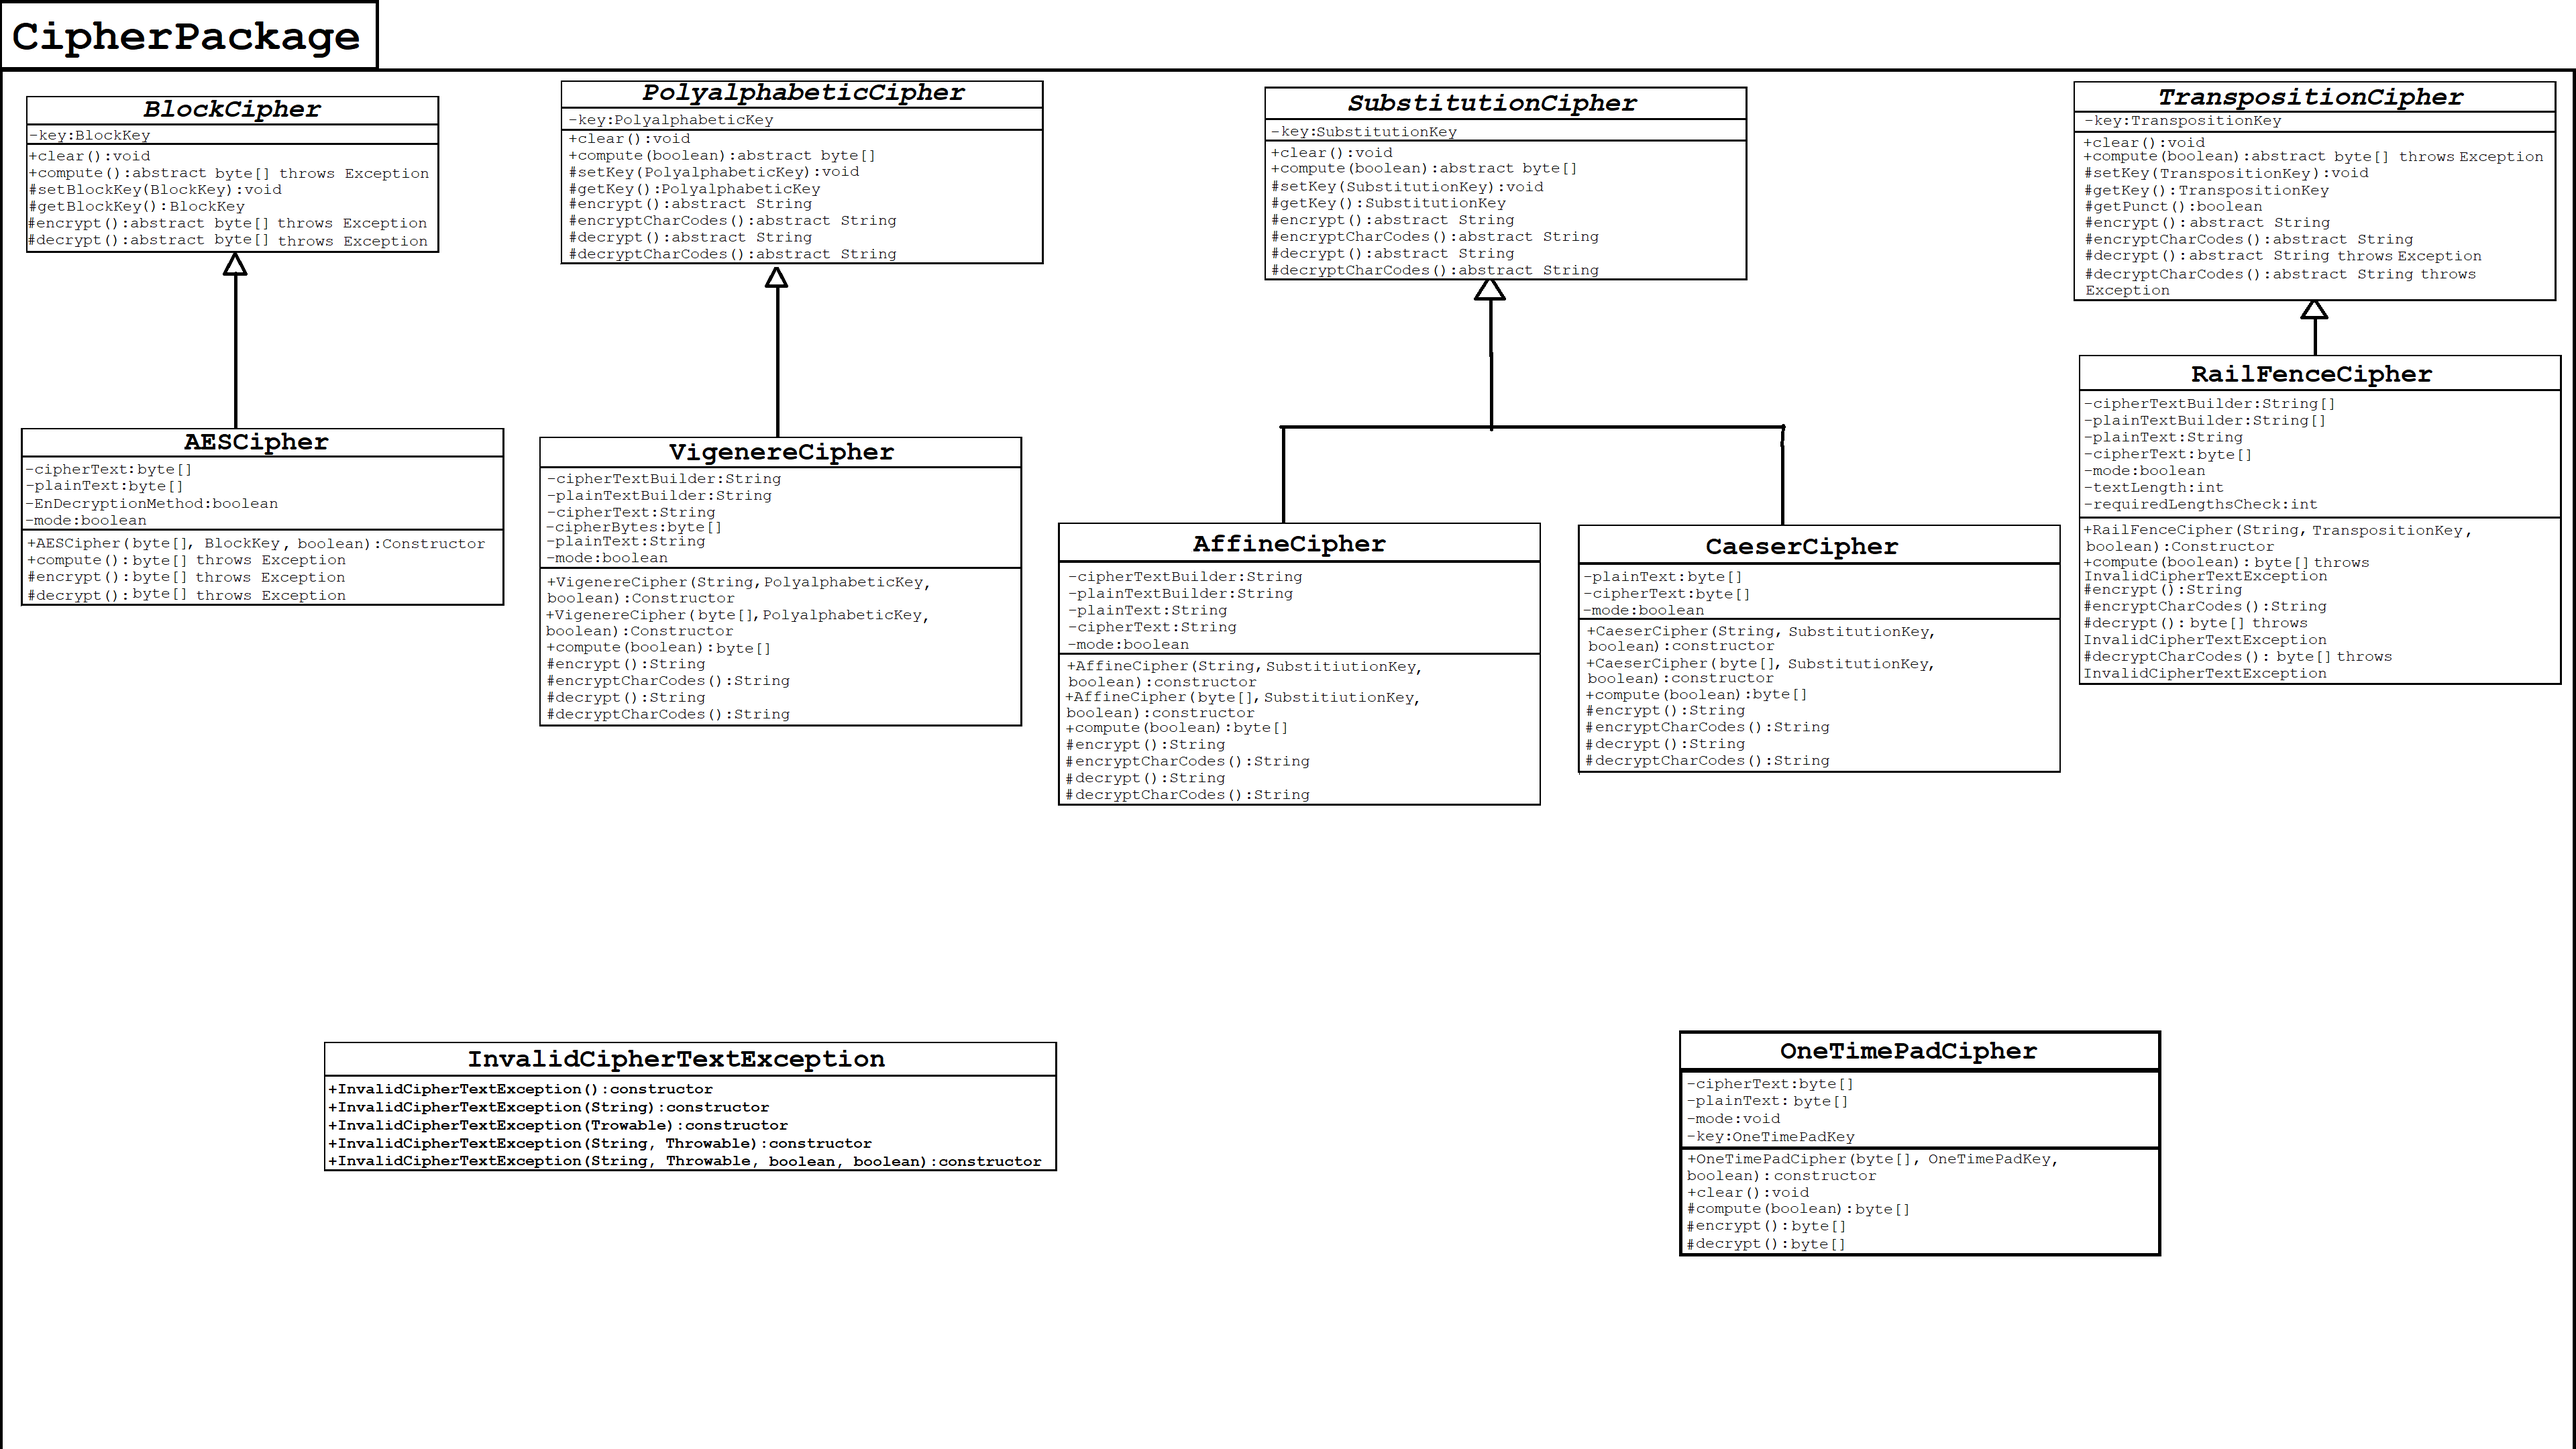
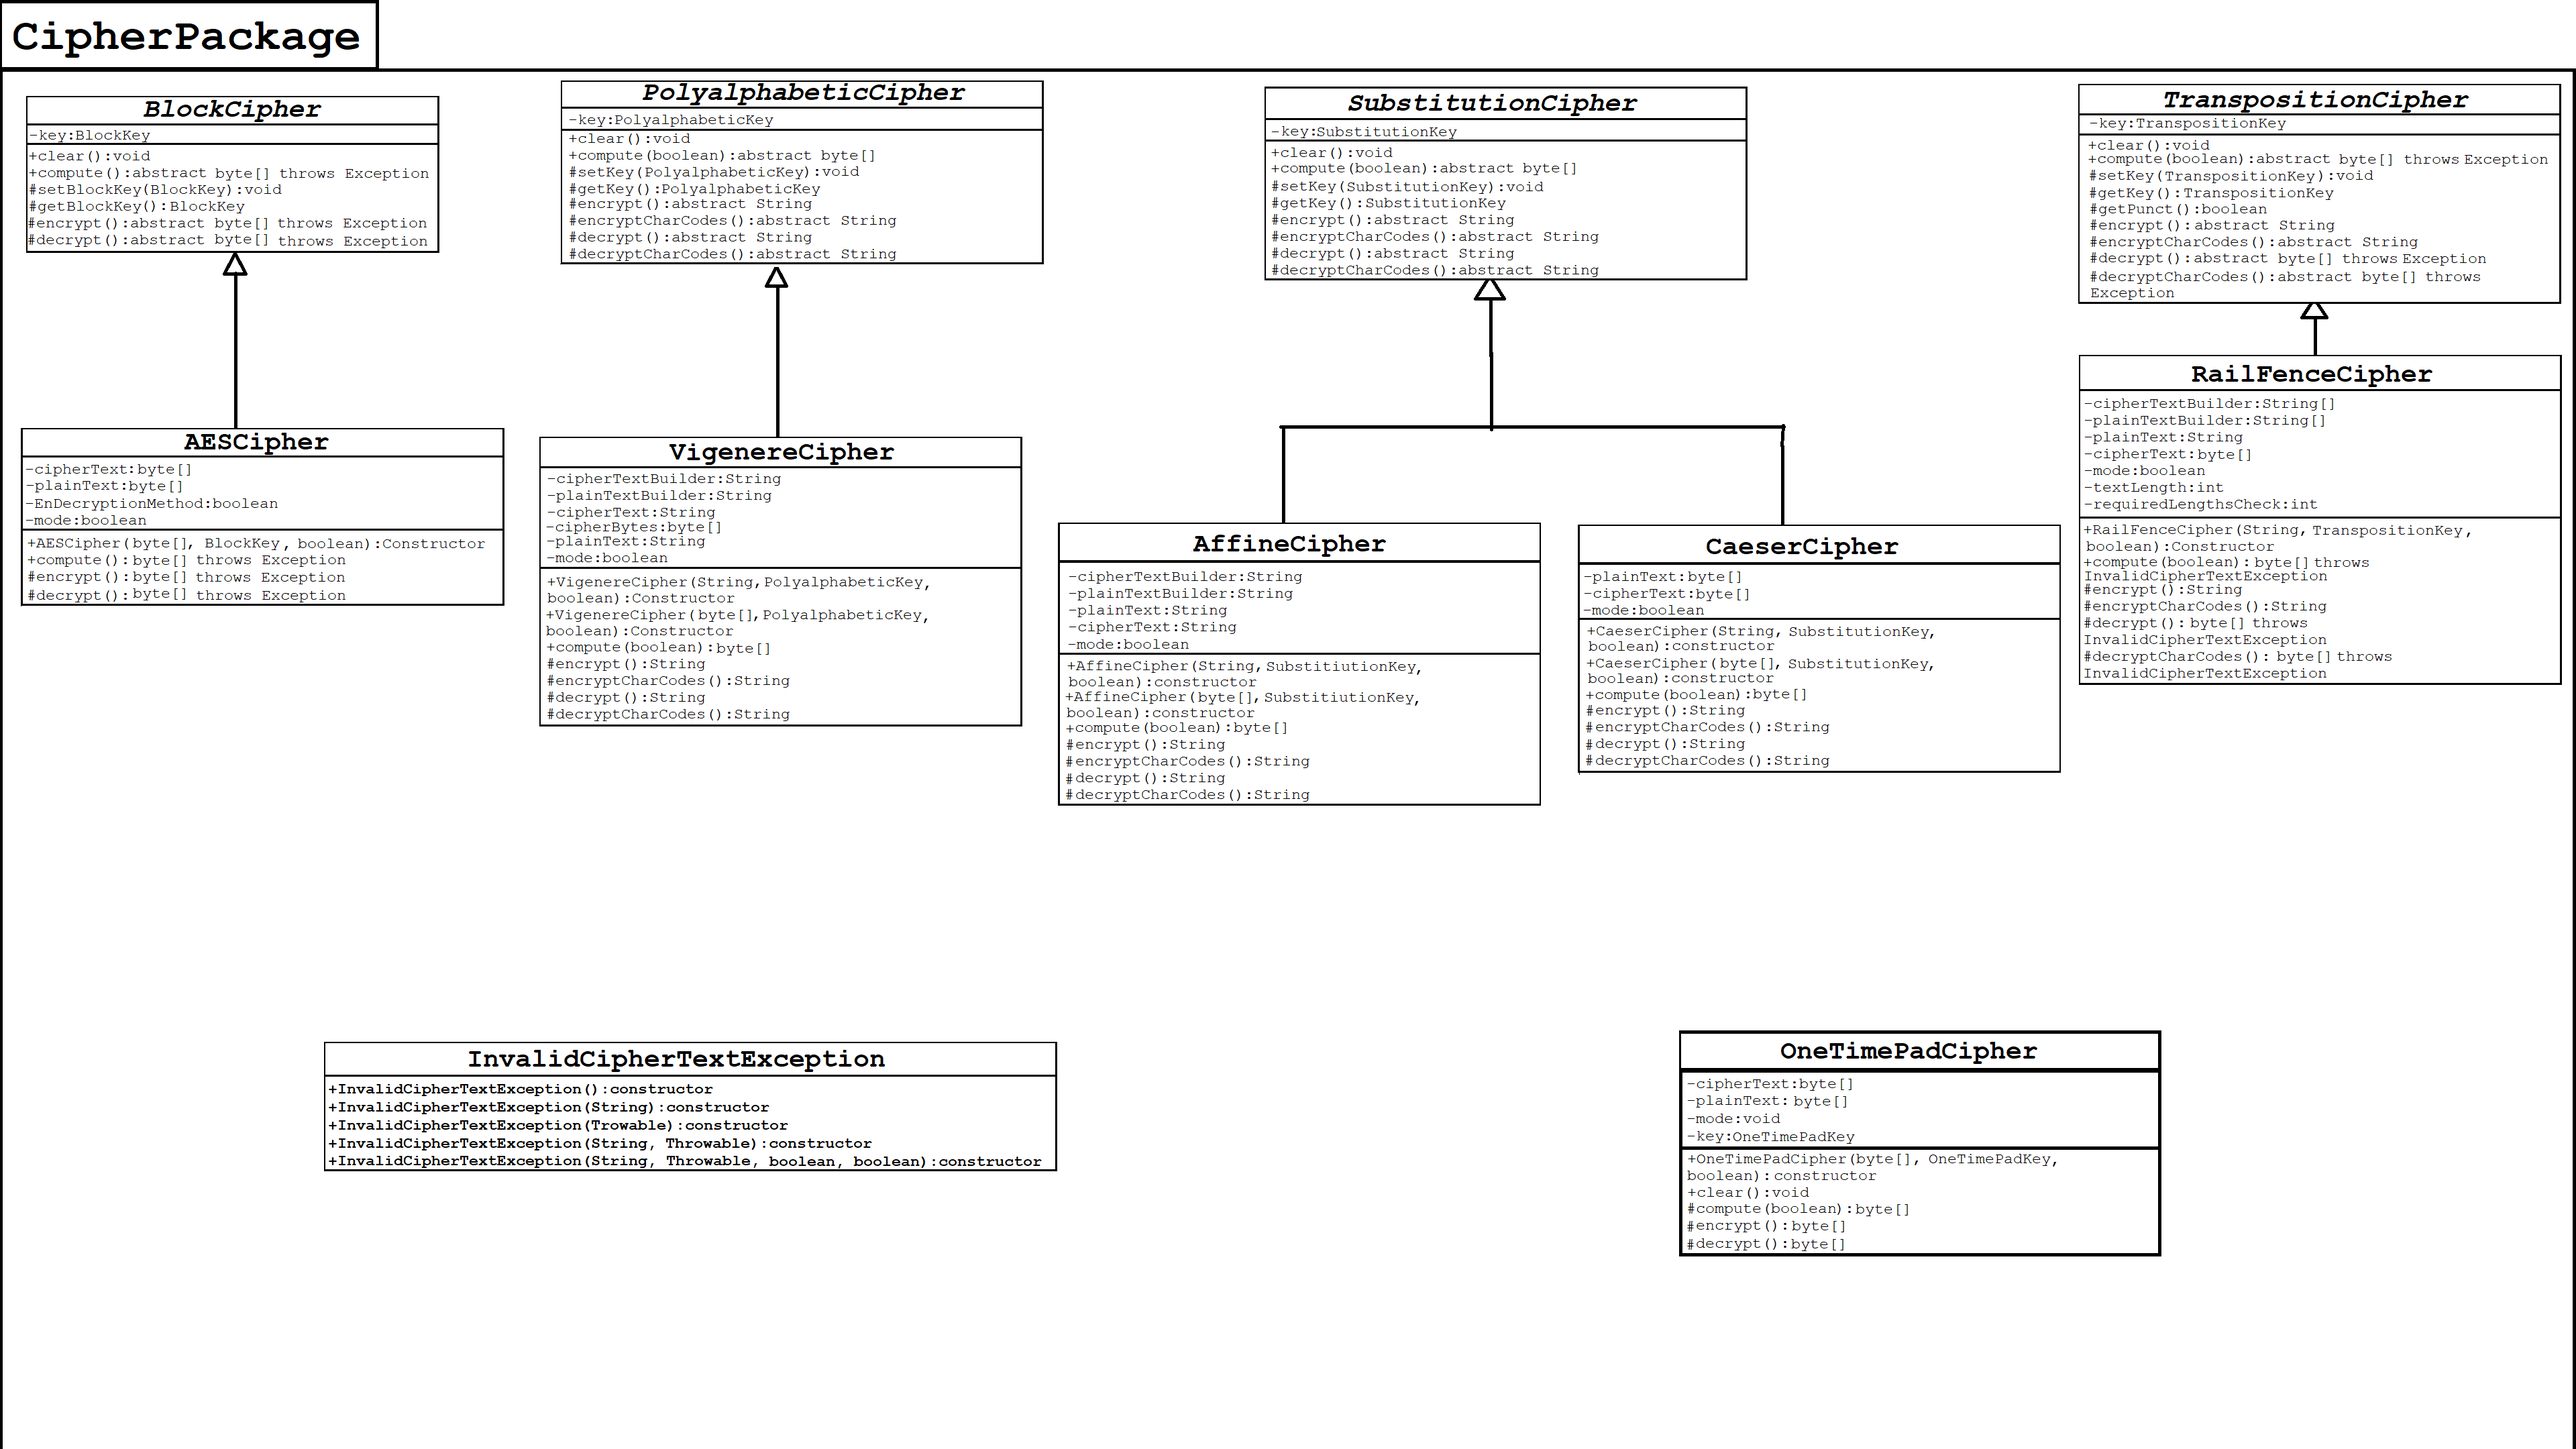
Updated UML diagram to fix an error.  Updated some code to conform with the updated diagram.

Changed region(s): [[0.8125, 0.062, 1.0, 0.2171]]

diff --git a/Encryptor Decryptor File Encryption/src/Encryptor Decryptor File Ecryption/CipherPackage/OneTimePadCipher.java b/Encryptor Decryptor File Encryption/src/Encryptor Decryptor File Ecryption/CipherPackage/OneTimePadCipher.java
@@ -3,8 +3,6 @@
  */
 package CipherPackage;
 
-import java.io.UnsupportedEncodingException;
-
 import CipherKeys.OneTimePadKey;
 
 /**
@@ -14,17 +12,15 @@ import CipherKeys.OneTimePadKey;
 public class OneTimePadCipher 
 {
 	
-	private byte[] cipherBytes;
-	private byte[] plainBytes;
-	private String cipherText;
-	private String plainText;
+	private byte[] cipherText;
+	private byte[] plainText;
 	private boolean mode;
 	private OneTimePadKey key;
 
 	/**
 	 * 
 	 */
-	public OneTimePadCipher(String text, OneTimePadKey key, boolean mode)
+	public OneTimePadCipher(byte[] text, OneTimePadKey key, boolean mode)
 	{
 		this.mode = mode;
 		if(mode) // Encrypt
@@ -36,112 +32,35 @@ public class OneTimePadCipher
 	
 	public void clear()
 	{
-		cipherText = "";
-		plainText = "";
+		cipherText = null;
+		plainText = null;
 		key = null;
 	}
 	
-	public String compute(boolean inputType)
+	public byte[] compute(boolean inputType)
 	{
 		if(mode)
-		{
-			if(inputType) // Is not a String of bytes, is a literal plaintext.  
-			{
-				try 
-				{
-					plainBytes = plainText.getBytes("UTF-16");
-				} 
-				catch (UnsupportedEncodingException e) 
-				{
-					// TODO Auto-generated catch block
-					e.printStackTrace();
-					System.out.println("Error could not interpret text.  ");
-					System.out.println("Fatal program error, programm will close in 10 seconds.  ");
-					for(int i = 0; i < 100000; i++)
-					{
-						// Do nothing.  
-					}
-					System.exit(1);
-				}
-			}
-			else // Is a String of bytes, where each byte is separated by a space.  
-			{
-				String[] stringBytes = plainText.split(" ");
-				for(int index = 0; index < stringBytes.length; index++)
-				{
-					plainBytes[index] = Byte.parseByte(stringBytes[index]);
-				}
-			}
 			return encrypt();
-		}
 		else
-		{
-			try
-			{
-				cipherBytes = cipherText.getBytes("UTF-16");
-			}
-			catch(UnsupportedEncodingException e)
-			{
-				e.printStackTrace();
-				System.out.println("Error could not interpret text.  ");
-				System.out.println("Fatal program error, programm will close in 10 seconds.  ");
-				for(int i = 0; i < 100000; i++)
-				{
-					i = i; // Do nothing.  
-				}
-				System.exit(1);
-			}
 			return decrypt();
-		}
 	}
 	
-	protected String encrypt()
+	protected byte[] encrypt()
 	{
-		cipherBytes = new byte[key.getTextLength()];
-		for(int index = 0; index < plainBytes.length; index++)
+		cipherText = new byte[key.getTextLength()];
+		for(int index = 0; index < plainText.length; index++)
 		{
-			cipherBytes[index] = (byte)(key.getKey()[index] ^ plainBytes[index]);
-		}
-		try 
-		{
-			cipherText = new String(cipherBytes, "UTF-16");
-		} 
-		catch (UnsupportedEncodingException e) 
-		{
-			// TODO Auto-generated catch block
-			e.printStackTrace();
-			System.out.println("Error could not interpret text.  ");
-			System.out.println("Fatal program error, programm will close in 10 seconds.  ");
-			for(int i = 0; i < 100000; i++)
-			{
-				i = i; // Do nothing.  
-			}
-			System.exit(1);
+			cipherText[index] = (byte)(key.getKey()[index] ^ plainText[index]);
 		}
 		return cipherText;
 	}
 	
-	protected String decrypt()
+	protected byte[] decrypt()
 	{
-		plainBytes = new byte[key.getTextLength()];
-		for(int index = 0; index < cipherBytes.length; index++)
+		plainText = new byte[key.getTextLength()];
+		for(int index = 0; index < cipherText.length; index++)
 		{
-			plainBytes[index] = (byte)(key.getKey()[index] ^ cipherBytes[index]);
-		}
-		try
-		{
-			plainText = new String(cipherBytes, "UTF-16");
-		}
-		catch(UnsupportedEncodingException e)
-		{
-			e.printStackTrace();
-			System.out.println("Error could not interpret text.  ");
-			System.out.println("Fatal program error, programm will close in 10 seconds.  ");
-			for(int i = 0; i < 100000; i++)
-			{
-				i = i; // Do nothing.  
-			}
-			System.exit(1);
+			plainText[index] = (byte)(key.getKey()[index] ^ cipherText[index]);
 		}
 		return plainText;
 	}

diff --git a/Encryptor Decryptor File Encryption/src/Encryptor Decryptor File Ecryption/CipherPackage/PolyalphabeticCipher.java b/Encryptor Decryptor File Encryption/src/Encryptor Decryptor File Ecryption/CipherPackage/PolyalphabeticCipher.java
@@ -27,7 +27,7 @@ public abstract class PolyalphabeticCipher
 		key = null;
 	}
 	
-	public abstract String compute(boolean resultType);
+	public abstract byte[] compute(boolean resultType);
 	
 	protected void setKey(PolyalphabeticKey key)
 	{
